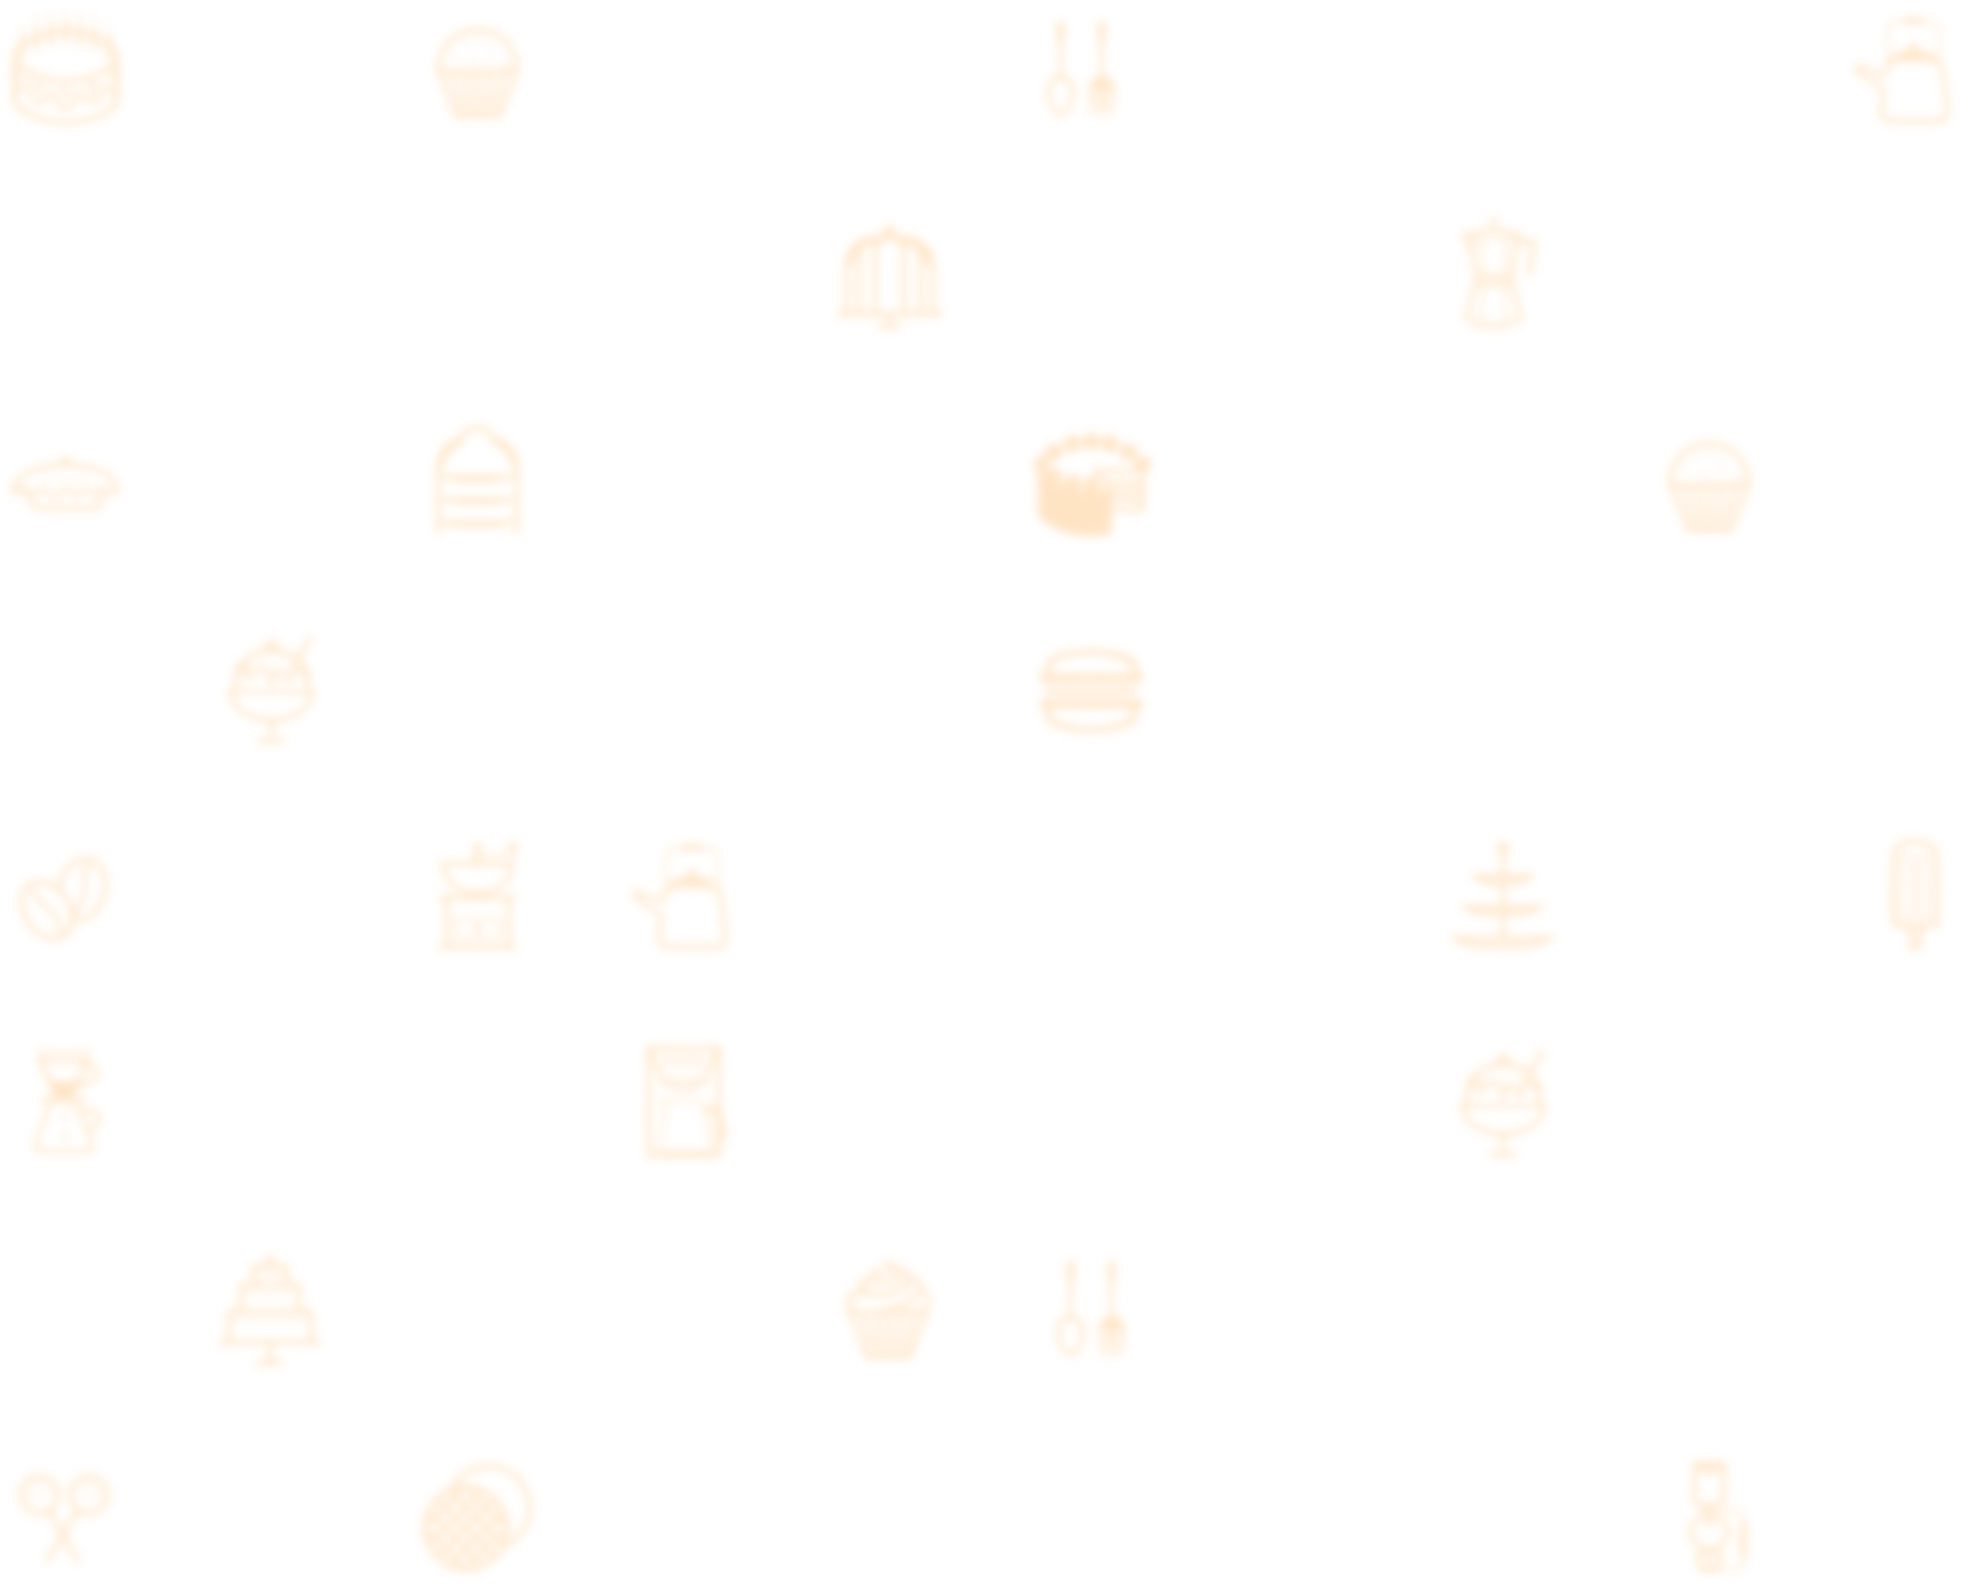
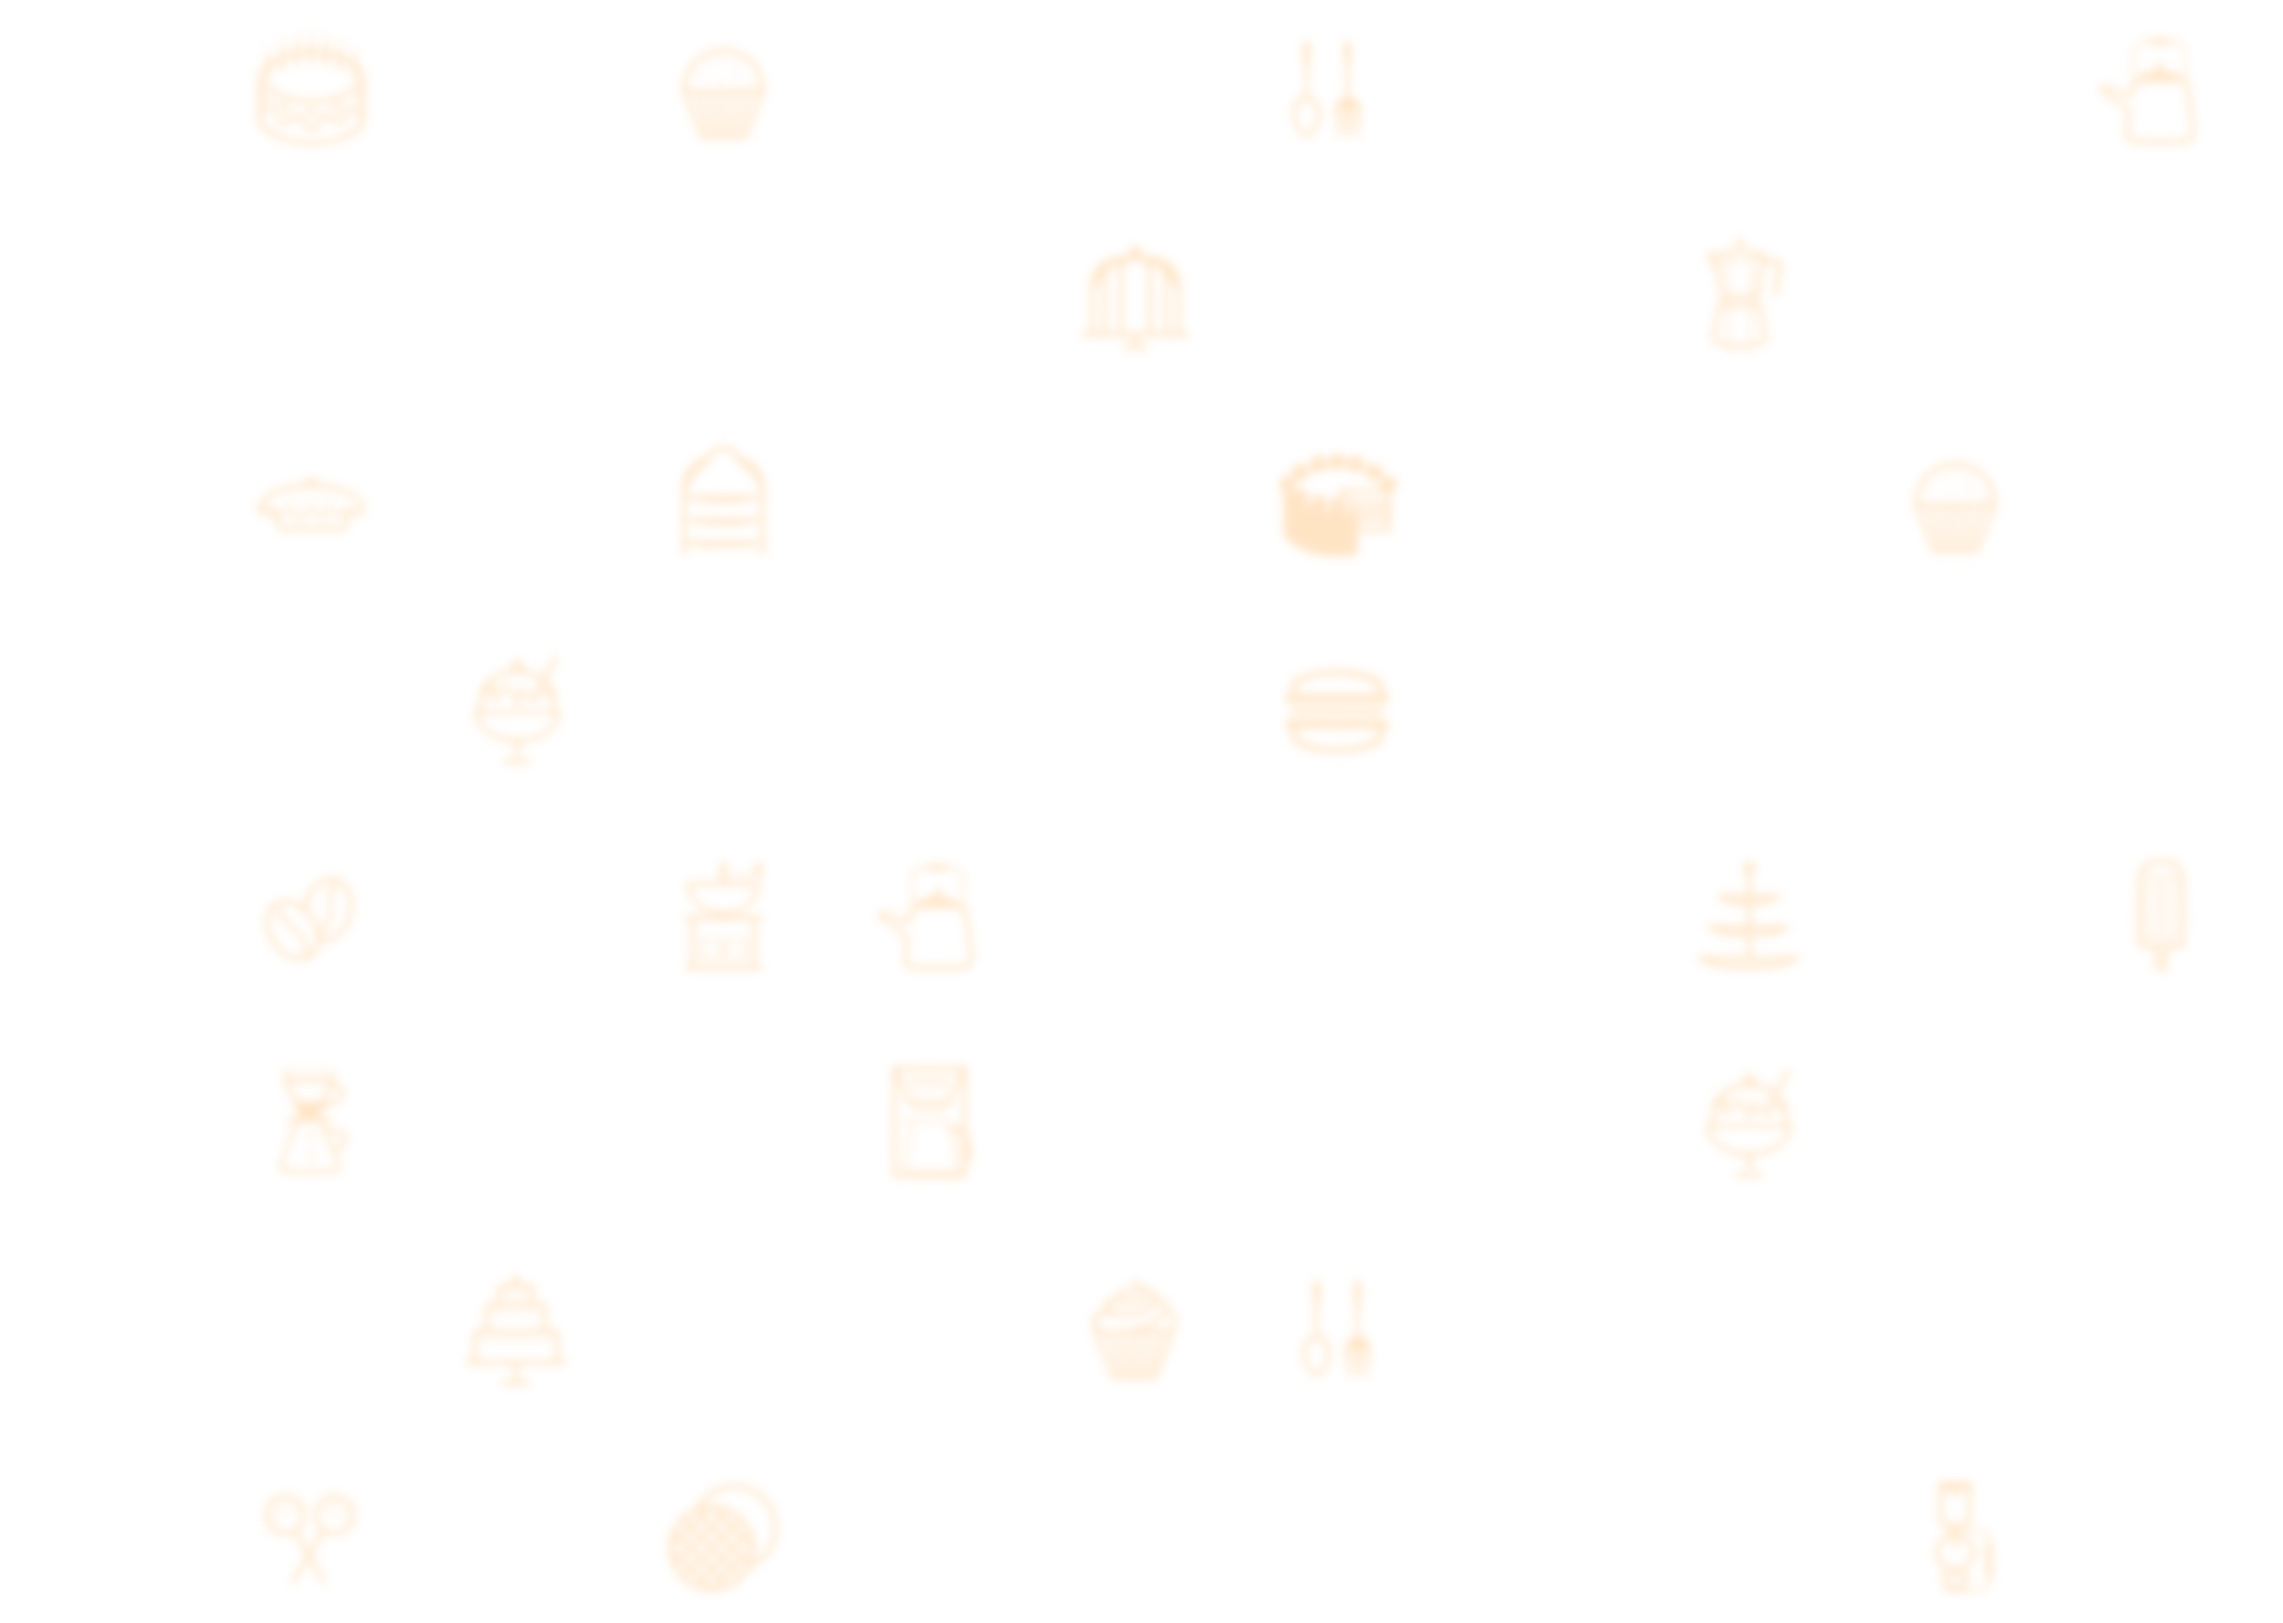
Fix parallax images and change back to original format

diff --git a/css/style.css b/css/style.css
@@ -37,8 +37,8 @@ h1 {
     background-position: center top;
     background-repeat: repeat;
     background-attachment: fixed;
-    background-image: url('../img/parallax-bg.png');
-    background-size: cover;
+    background-image: url('../img/parallax-front.png');
+    /*background-size: cover;*/
 }
 
 .parallax-section-mid {
@@ -49,8 +49,8 @@ h1 {
     background-position: center top;
     background-repeat: repeat;
     background-attachment: fixed;
-    background-image: url('../img/parallax-bg.png');
-    background-size: cover;
+    background-image: url('../img/parallax-mid.png');
+    /*background-size: cover;*/
 }
 
 .parallax-section-front {
@@ -61,8 +61,8 @@ h1 {
     background-position: center top;
     background-repeat: repeat;
     background-attachment: fixed;
-    background-image: url('../img/parallax-bg.png');
-    background-size: cover;
+    background-image: url('../img/parallax-back.png');
+    /*background-size: cover;*/
 }
 
 .container {
